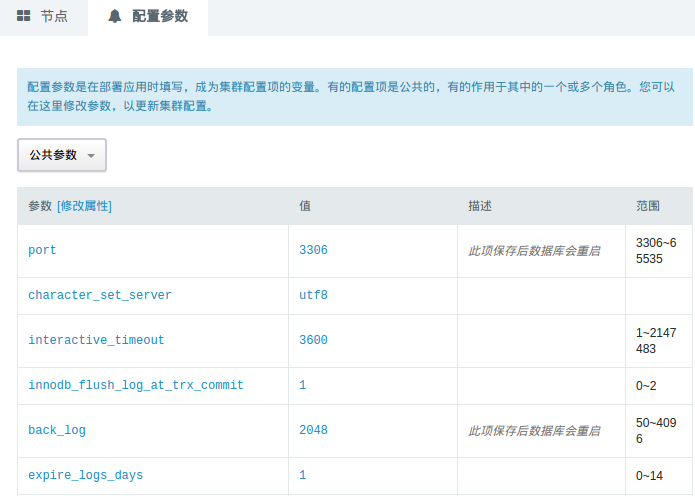
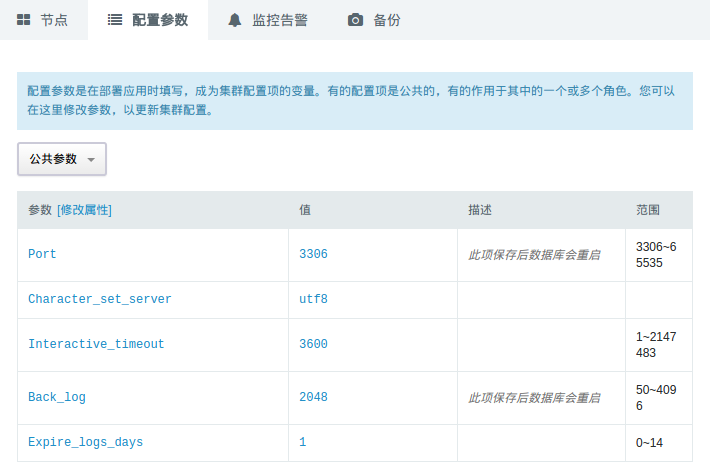
add MySQL PLUS docs

diff --git a/docs/rds/README.md b/docs/rds/README.md
@@ -1,19 +1,19 @@
-# QingCloud MySQL Plus 用户手册
+# 用户手册
 
 ## 描述
 
-「QingCloud MySQL Plus」是一款具备金融级强一致性、主从秒级切换，集 InnoDB + TokuDB 双存储引擎支持的增强型 MySQL 集群应用。
+「QingCloud MySQL Plus」是一款具备金融级强一致性、主从秒级切换，集InnoDB + TokuDB 双存储引擎支持的增强型 MySQL 集群应用。
 
 - 多副本同步复制，确保金融级强一致性
 
-「QingCloud MySQL Plus」采用一主两从的初始节点架构设计，并通过 MySQL 5.7 版本中的 semi-sync 特性实现数据的多副本同步复制，确保至少一个从节点与主节点始终保持数据的完全一致，提供金融级数据强一致性。多个从节点的设置将极大的屏蔽掉单点故障带来的影响，确保集群内始终有从节点保有全量数据。
+「QingCloud MySQL Plus」采用一主两从的初始节点架构设计，并通过 MySQL 5.7 版本中的 semi-sync 特性实现数据的多副本同步复制，确保至少一个从节点与主节点始终保持数据的完全一致，提供金融级数据强一致性。多个从节点的设置将极大的屏蔽掉单点故障带来的影响，确保集群内始终有从节点保有全量数据。 
 
 - 主从秒级切换，确保业务高可用
 
 节点之间使用 Raft 协议进行管理，当主节点出现故障不可用时，集群会秒级响应并选出新的主节点（与主节点数据完全同步的从节点），立即接管读写请求，确保业务的连续高可用。这一过程，用户完全无需关心后端集群中各节点的角色如何设置，一切由系统自动管理。
 
 
-集群中最多可以添加 6 个从节点，主节点可读可写，从节点设置为只读。 同时，集群提供两个高可用读写 IP， 分别对应数据的读和写。 读 IP 可将请求在多个从节点之间进行负载分担，提供读取性能的同时，也消除了单点故障的影响，提供业务可靠性。写 IP 则始终指向主节点 （master）。
+集群中最多可以添加 6 个从节点，主节点可读可写，从节点设置为只读。 同时，集群提供两个高可用读写 IP， 分别对应数据的读和写。 读 IP 可将请求在多个从节点之间进行负载分担，提供读取性能的同时，也消除了单点故障的影响，提供业务可靠性。写 IP 则始终指向主节点 （master）。 
 
 
 - 支持双存储引擎，优化存储成本
@@ -37,7 +37,6 @@
 ![基本设置](../../images/rds/base_step_1.png)
 
 ### 节点设置
-
   可以选择性能型或者超高性能型数据库，以及数据库的配置、磁盘大小。磁盘大小决定了数据库最大容量，您的数据和日志会共享这块磁盘。
 
 ![节点设置](../../images/rds/base_step_2.png)
@@ -69,9 +68,9 @@
 
 ### 服务端口信息
 
-集群提供两个高可用的读写IP，分别对应于数据的读和写。
+集群提供两个高可用的读写IP，分别对应于数据的读和写。 
 
-- 读IP：可将请求在多个从节点之间进行负载分担，提高读取性能，消除单点故障。
+- 读IP：可将请求在多个从节点之间进行负载分担，提高读取性能，消除单点故障。 
 
 - 写IP：始终指向master节点。
 
@@ -96,6 +95,8 @@
 
 **注解**：这里的IP仅供查询和下载同步的日志使用，不能做写入使用
 
+
+
 ### 配置参数
 
 这里列出了可以修改并持久化的配置参数。没有标注会重启服务的参数，都可以运行时修改，对服务没有影响。
@@ -103,7 +104,26 @@
 ![配置参数](../../images/rds/env.png)
 
 
-**注解**：会自动重启服务的参数已经说明，请在业务低峰时进行修改
+**注解**：会自动重启服务的参数已经在描述中说明，请在业务低峰时进行修改
+
+
+### 监控告警
+
+可以对集群节点配置告警策略，及时掌握集群的资源和服务状况。
+
+![监控告警](../../images/rds/alarm.png)
+
+
+### 备份恢复
+
+可以对集群进行手动备份，也可以在集群列表页面右键选择备份时间进行自动备份。
+
+![手动备份](../../images/rds/backup.png)
+![自动备份](../../images/rds/auto_backup.png)
+
+如果需要从备份创建出一个独立于原有数据库服务的新数据库服务， 可以在详情页的『备份』标签下右键相应的备份点，再选择『从备份创建集群』即可。
+
+![恢复集群](../../images/rds/restore.png)
 
 ## 服务功能
 
@@ -116,7 +136,7 @@
 |ALTER                  |Alter_priv              
 |ALTER ROUTINE          |Alter_routine_priv      
 |CREATE                 |Create_priv             
-|CREATE ROUTINE         |Create_routine_priv
+|CREATE ROUTINE         |Create_routine_priv 
 |CREATE TEMPORARY TABLES|Create_tmp_table_priv
 |CREATE VIEW            |Create_view_priv     
 |DELETE                 |Delete_priv         
@@ -154,6 +174,8 @@
 
 ![添加节点](../../images/rds/add_nodes.png)
 
+**注解**：删除节点时，如果当前节点是master节点则不能删除，需要重新选择节点删除
+
 
 ### 扩容集群
 
@@ -189,6 +211,16 @@
 **注解**：系统监控会自动修复异常节点，所以通常无需自行重启节点
 
 
+### 重建节点
+
+当系统无法自动修复异常节点时，可以通过重建功能来重新构建节点和数据，需要填写指定节点的节点ID。
+
+![重建节点](../../images/rds/rebuild_node.png)
+
+
+**注解**：重建节点不会影响其他节点的运行，重建时间跟数据量有关
+
+
 ### 监控
 
 这里提供了资源监控和服务监控。服务监控统计了SHOW GLOBAL STATUS中的信息，可用于定位分析数据库的性能。
@@ -206,7 +238,7 @@
 
 ## 数据迁移
 
-「QingCloud MySQL Plus」的MySQL版本为5.7.17，且开启了GTID复制模式，因此从其他MySQL迁移数据时，需要通过导数据的方式来进行。
+「QingCloud MySQL Plus」的MySQL版本为5.7.18，且开启了GTID复制模式，因此从其他MySQL迁移数据时，需要通过导数据的方式来进行。
 
 ### 数据导出
 
@@ -231,7 +263,7 @@ mysql -umysql_dev -p -h192.168.0.250 < dump.sql
 ## 基准测试
 
 为了模拟出产品环境真实的 OLTP 业务场景和压力， 我们采用了
-[TPC-C](http://www.tpc.org/tpcc/)  这个专门针对 OLTP 系统的基准测试规范， 使用的 TPC-C 工具是
+[TPC-C](http://www.tpc.org/tpcc/)  这个专门针对 OLTP 系统的基准测试规范， 使用的 TPC-C 工具是 
 [Percona tpcc-mysql](https://www.percona.com/blog/2013/07/01/tpcc-mysql-simple-usage-steps-and-how-to-build-graphs-with-gnuplot/) ， 关于 TPC-C 规范的数据模型和测试运行方式可以参考
 [TPC-C The OLTP Benchmark](http://www.tpc.org/information/sessions/sigmod/sld002.htm)
 
